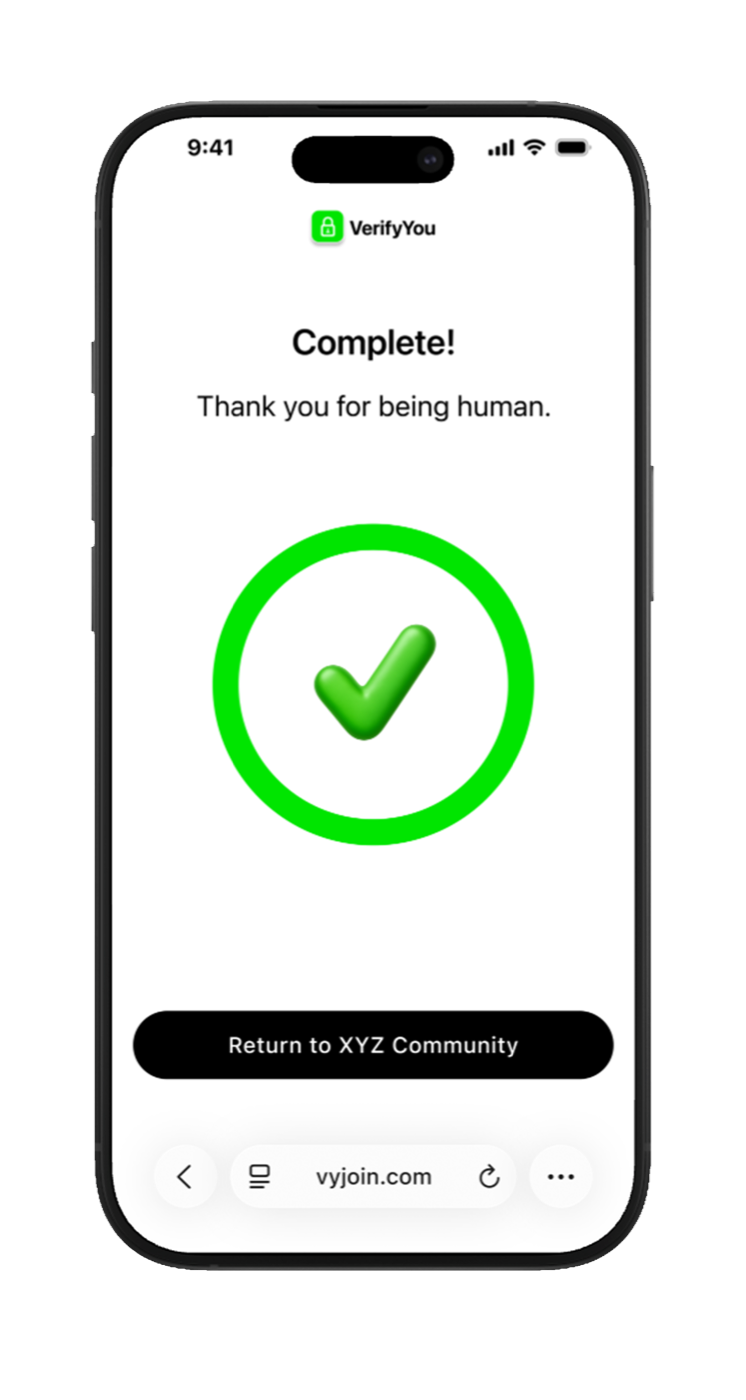
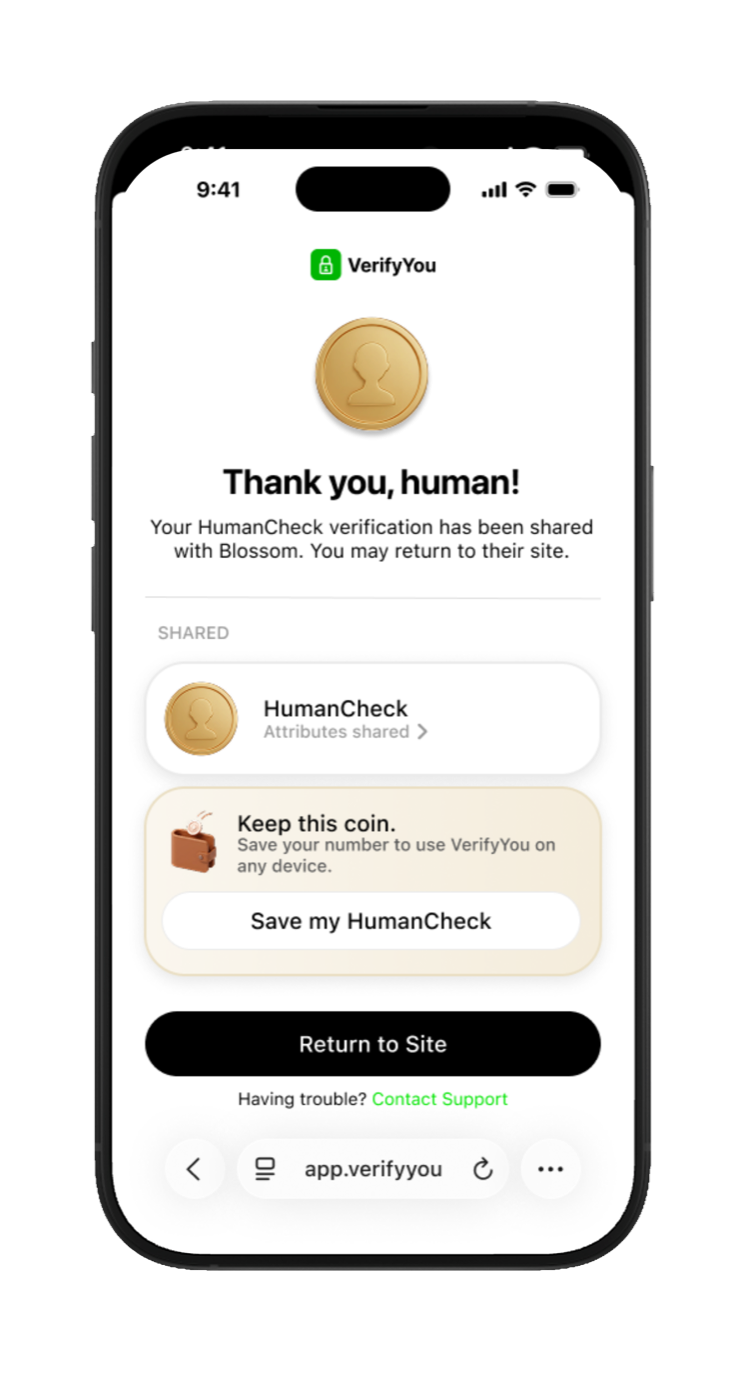
Round: coin success screen fixed full-frame; setup leads with Create your survey; respondent flow forks pass/fail after the scan; how-it-works trimmed; hero list becomes interactive click-through stepper; MDX dollar-sign math bug escaped

diff --git a/style.css b/style.css
@@ -216,3 +216,16 @@
   border-color: rgba(255, 255, 255, 0.14);
   box-shadow: inset 0 1px 0 rgba(255, 255, 255, 0.18), inset 0 -1px 1px rgba(0, 0, 0, 0.25);
 }
+
+/* Interactive outcome stepper (home hero) */
+.vy-stepper { border: 1px solid rgba(127, 127, 127, 0.22); border-radius: 16px; padding: 1.4rem 1.5rem 1.5rem; max-width: 62rem; }
+.vy-st-row { display: flex; flex-wrap: wrap; gap: 0.55rem; margin-bottom: 1.25rem; }
+.vy-st { display: inline-flex; align-items: center; gap: 0.55rem; padding: 0.45rem 0.9rem 0.45rem 0.5rem; border: 1px solid rgba(127, 127, 127, 0.22); border-radius: 999px; background: transparent; font: 600 0.88rem/1.2 Inter, sans-serif; color: #8a8f98; cursor: pointer; transition: border-color 0.15s ease, color 0.15s ease; }
+.vy-st:hover { border-color: rgba(22, 163, 74, 0.45); }
+.vy-st.on { color: inherit; border-color: rgba(22, 163, 74, 0.55); }
+.vy-sp { display: none; }
+.vy-sp.on { display: grid; grid-template-columns: 1.05fr 1fr; gap: 2rem; align-items: center; }
+@media (max-width: 860px) { .vy-sp.on { grid-template-columns: 1fr; } }
+.vy-sp-text { font-size: 1.08rem; line-height: 1.6; font-weight: 500; }
+.vy-sp-img { max-height: 330px; width: auto; max-width: 100%; justify-self: center; border-radius: 12px; border: 1px solid rgba(127, 127, 127, 0.18); }
+.vy-sp-phone { border: none; border-radius: 0; filter: drop-shadow(0 14px 28px rgba(0, 0, 0, 0.35)); }